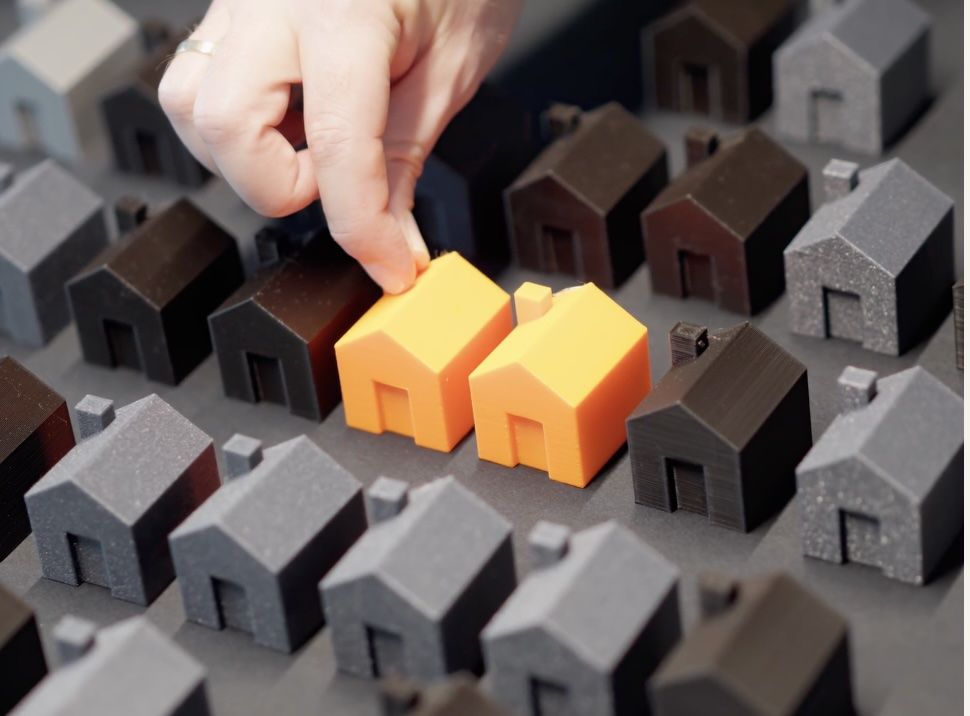
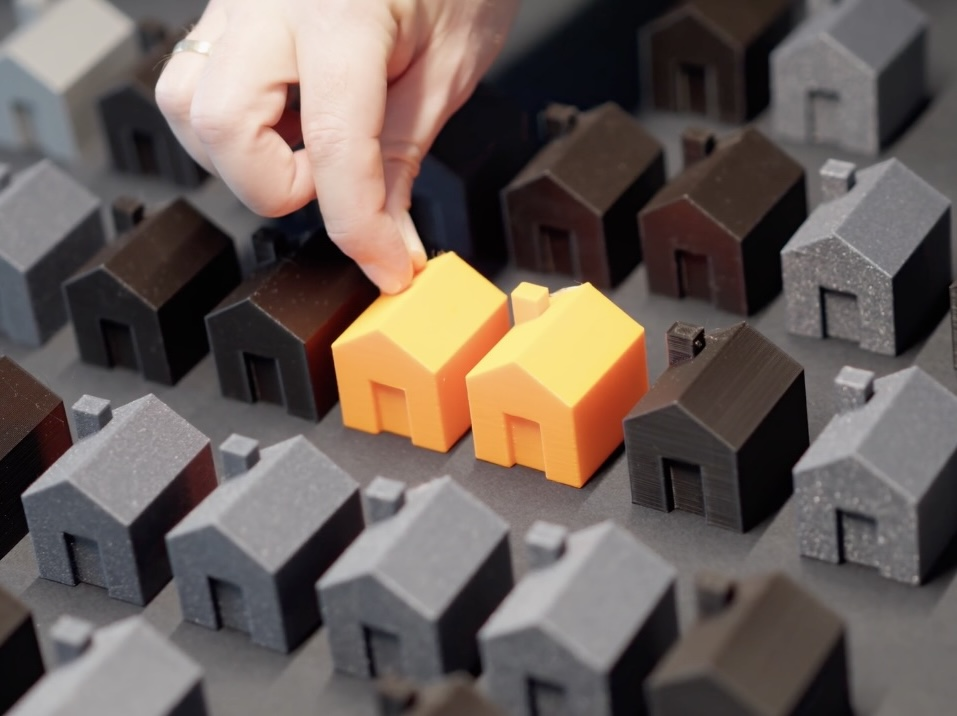
Updating homepage style

diff --git a/src/styles/theme.css b/src/styles/theme.css
@@ -3,6 +3,21 @@
 
 /* Constituency Insights index */
 
+:root {
+    --index-card-eyebrow: #e0c766;
+    --index-card-link: #fffdf8;
+    --index-card-link-hover: #f2dc87;
+    --index-card-overlay-start: rgba(24, 22, 19, 0.52);
+    --index-card-overlay-end: rgba(24, 22, 19, 0.72);
+    --index-card-shadow-hover: 0 8px 24px rgba(47, 47, 47, 0.08);
+}
+
+:root[data-theme="dark"] {
+    --index-card-overlay-start: rgba(24, 22, 19, 0.58);
+    --index-card-overlay-end: rgba(24, 22, 19, 0.78);
+    --index-card-shadow-hover: 0 8px 24px rgba(0, 0, 0, 0.32);
+}
+
 .observablehq--block:has(> .insights-index-intro),
 .observablehq--block:has(> .insights-index-grid) {
     margin: 0 !important;
@@ -38,7 +53,7 @@
 .insights-index-grid {
     display: grid;
     grid-template-columns: repeat(3, minmax(0, 1fr));
-    gap: 1.5rem;
+    gap: 1.25rem;
     max-width: var(--page-max);
     margin: 0 auto;
 }
@@ -56,16 +71,16 @@
     color: #fffdf8;
     text-decoration: none;
     transition:
-        transform 180ms ease,
-        border-color 180ms ease,
-        box-shadow 180ms ease;
+        transform 200ms ease,
+        border-color 200ms ease,
+        box-shadow 200ms ease;
 }
 
 .insights-index-card:hover,
 .insights-index-card:focus-visible {
     transform: translateY(-2px);
-    border-color: #b7ad95;
-    box-shadow: 0 10px 28px rgba(47, 47, 47, 0.1);
+    border-color: color-mix(in srgb, var(--border) 70%, var(--text) 30%);
+    box-shadow: var(--index-card-shadow-hover);
     color: #fffdf8;
     text-decoration: none;
 }
@@ -142,15 +157,15 @@
     z-index: 1;
     align-self: end;
     display: grid;
-    gap: 0.25rem;
+    gap: 0.35rem;
     margin: auto 0.9rem 0.9rem;
-    padding: 1rem 1.05rem 1.1rem;
-    border: 1px solid rgba(255, 253, 248, 0.2);
-    border-radius: calc(var(--radius) + 1px);
+    padding: 1.1rem 1.15rem 1.15rem;
+    border: 1px solid color-mix(in srgb, var(--index-card-link) 24%, transparent);
+    border-radius: var(--radius);
     background: linear-gradient(
         180deg,
-        rgba(24, 22, 19, 0.48) 0%,
-        rgba(24, 22, 19, 0.66) 100%
+        var(--index-card-overlay-start) 0%,
+        var(--index-card-overlay-end) 100%
     );
     -webkit-backdrop-filter: blur(18px) saturate(125%);
     backdrop-filter: blur(18px) saturate(125%);
@@ -159,9 +174,9 @@
 
 .insights-index-card__eyebrow {
     margin: 0;
-    color: rgba(255, 248, 227, 0.84);
-    font-size: 0.76rem;
-    font-weight: 600;
+    color: var(--index-card-eyebrow);
+    font-size: 0.82rem;
+    font-weight: 700;
     line-height: 1.2;
     letter-spacing: 0.08em;
     text-transform: uppercase;
@@ -174,15 +189,23 @@
     justify-content: flex-start;
     margin: 0;
     padding: 0;
-    color: rgba(255, 253, 248, 0.94);
-    font-size: 0.9rem;
-    font-weight: 500;
+    color: var(--index-card-link);
+    font-size: 0.95rem;
+    font-weight: 600;
     line-height: 1.2;
+    transition: color 180ms ease;
 }
 
 .insights-index-card__arrow {
     flex: 0 0 auto;
+    color: var(--index-card-eyebrow);
+    font-size: 1.05em;
     transition: transform 180ms ease;
+}
+
+.insights-index-card:hover .insights-index-card__heading,
+.insights-index-card:focus-visible .insights-index-card__heading {
+    color: var(--index-card-link-hover);
 }
 
 .insights-index-card:hover .insights-index-card__arrow,
